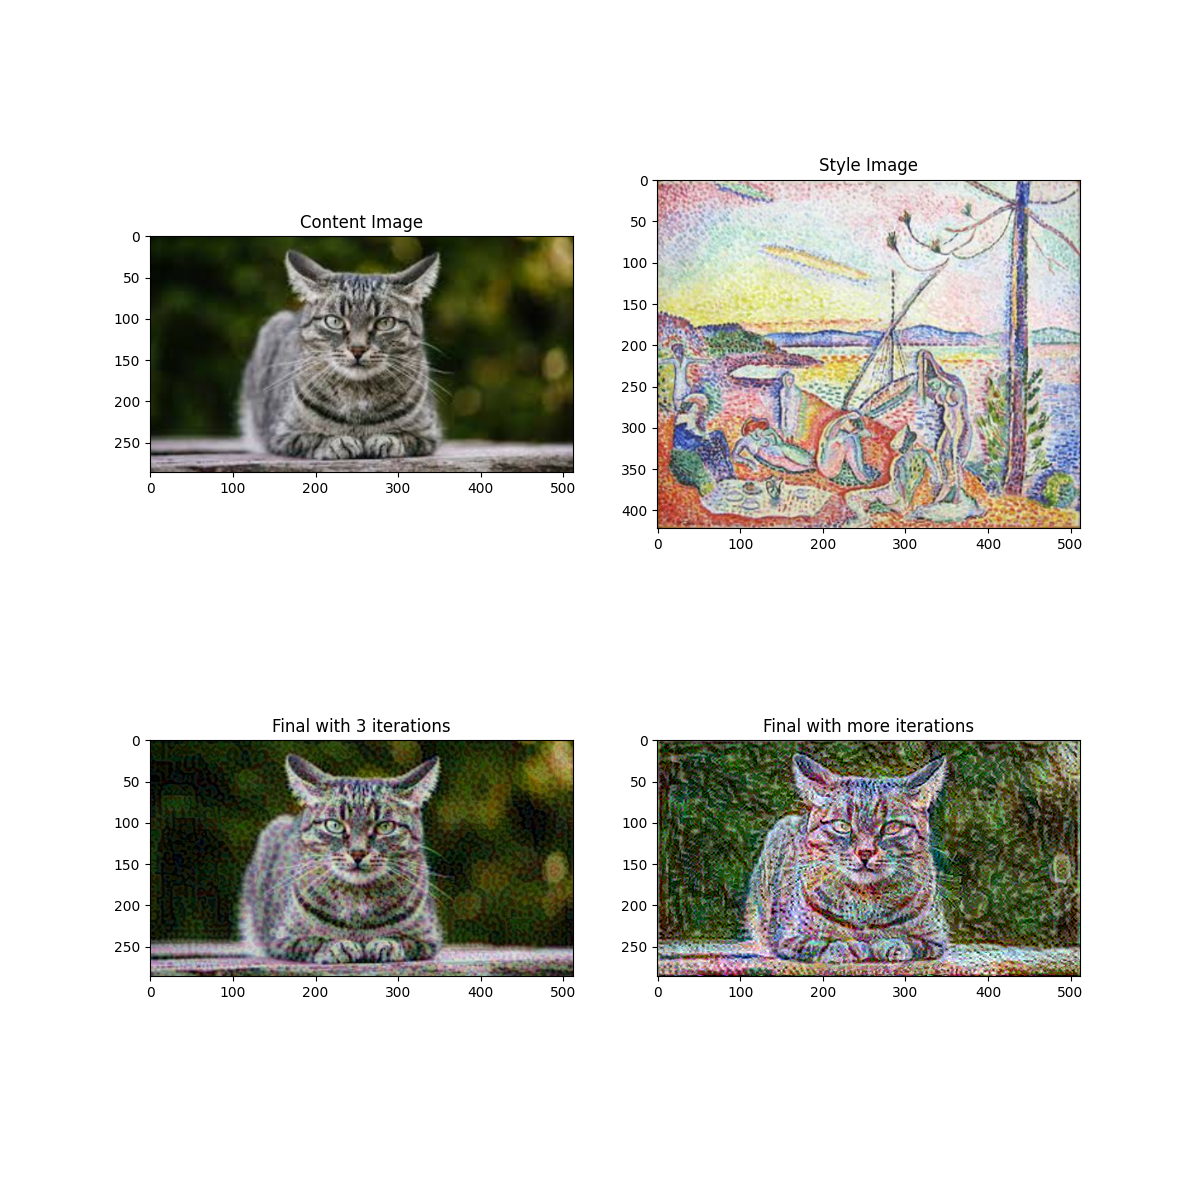
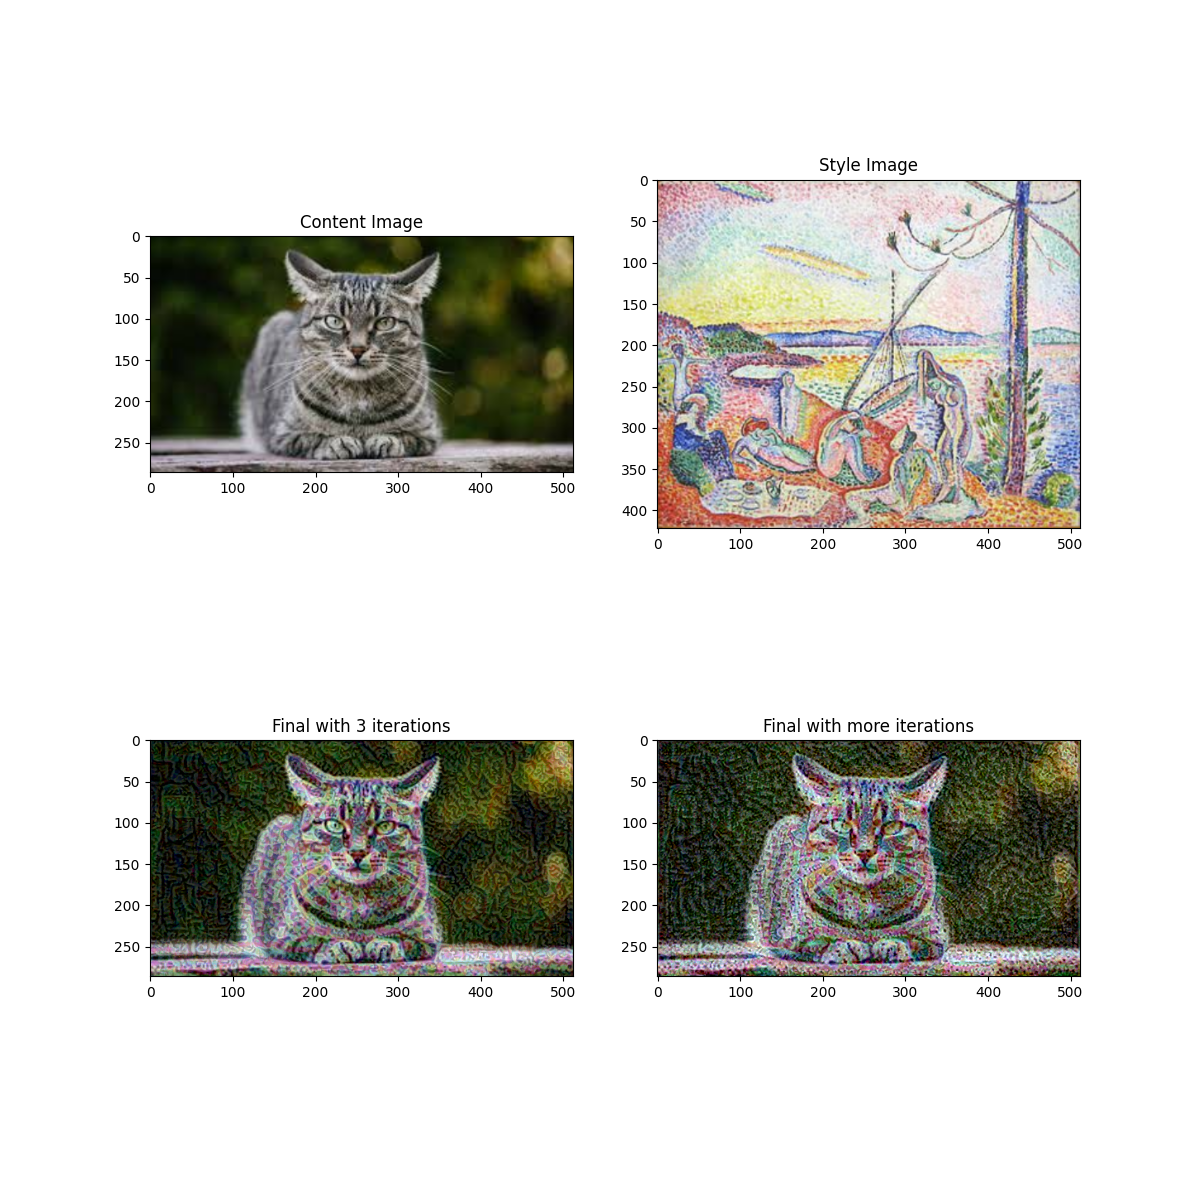
cleaned up single.py Co-authored: Mark Wu

Changed region(s): [[0.5242, 0.6167, 0.925, 0.8325]]

diff --git a/single.py b/single.py
@@ -1,7 +1,10 @@
 '''
+This is adapted from tensorflow's official tutorial on NST:
+https://www.tensorflow.org/tutorials/generative/style_transfer
 Mark Wu; Ding Pang
 '''
 import os
+from numpy.matrixlib.defmatrix import matrix
 import tensorflow as tf
 import IPython.display as display
 os.environ['TFHUB_MODEL_LOAD_FORMAT'] = 'COMPRESSED'
@@ -20,9 +23,12 @@ from tqdm import tqdm
 Style_Path= "./style3.jpeg"
 Content_Path = "./content1.jpeg"
 
+# A function converts a tensor into image
 def tensor_to_image(tensor):
+  # Tensor is in range from 0 to 1, we convert it to 0-255 for colors.
   tensor = tensor*255
   tensor = np.array(tensor, dtype=np.uint8)
+  # dim 3 is RGB
   if np.ndim(tensor)>3:
     assert tensor.shape[0] == 1
     tensor = tensor[0]
@@ -32,21 +38,27 @@ def tensor_to_image(tensor):
 #Function to load in an image and limiting the image maximum dimention to 512 pixels.
 def load_img(path_to_img):
   max_dim = 512
+  # Read and get the image
   img = tf.io.read_file(path_to_img)
   img = tf.image.decode_image(img, channels=3)
   img = tf.image.convert_image_dtype(img, tf.float32)
 
+  # convert tensor's shape to float32 for easy calculation
   shape = tf.cast(tf.shape(img)[:-1], tf.float32)
-  long_dim = max(shape)
-  scale = max_dim / long_dim
 
+  # Find the "max" dimension
+  long_dim = max(shape)
+  # limit the "max" dimension to actual max_dim
+  scale = max_dim / long_dim
   new_shape = tf.cast(shape * scale, tf.int32)
 
+  # resize the image
   img = tf.image.resize(img, new_shape)
+  # add one dim in image, so it is in (1, width, length, 3)
   img = img[tf.newaxis, :]
   return img
 
-#Function to display image
+#Function to display image with title
 def imshow(image, title=None):
   if len(image.shape) > 3:
     image = tf.squeeze(image, axis=0)
@@ -64,49 +76,50 @@ plt.subplot(2, 2, 2)
 imshow(style_image, 'Style Image')
 # plt.show()
 
+# Put content image in RGB values and pass to vgg19
 x = tf.keras.applications.vgg19.preprocess_input(content_image*255)
+# Resize x into 224 by 224, which is default size for vgg19
 x = tf.image.resize(x, (224, 224))
+
 # Load Pre-trained VGG19
 # This would require a "good" certificate
 vgg = tf.keras.applications.VGG19(include_top=False, weights='imagenet')
 
+# We will get "features" from those belwo layers
 content_layers = ['block5_conv2']
 style_layers = ['block1_conv1',
                 'block2_conv1',
                 'block3_conv1',
                 'block4_conv1',
                 'block5_conv1']
+
 num_content_layers = len(content_layers)
 num_style_layers = len(style_layers)
 
+
 def vgg_layers(layer_names):
-  # Creates a vgg model that returns a list of intermediate output values.
+  # Creates a vgg model that returns a list of feature values.
   # Load our model. Load pretrained VGG, trained on imagenet data
   vgg.trainable = False # Gatys Modle doesn't train or let the model learn
 
-  outputs = [vgg.get_layer(name).output for name in layer_names]
-  # Defining a model using Keras API with specifying input/output
+  outputs = []
+  for name in layer_names:
+    outputs.append(vgg.get_layer(name).output)
+
+  # Defining a model using Keras API with specifying our outputs
   model = tf.keras.Model([vgg.input], outputs)
   return model
 
-style_extractor = vgg_layers(style_layers)
-style_outputs = style_extractor(style_image*255)
 
-
-#Look at the statistics of each layer's output
-# for name, output in zip(style_layers, style_outputs):
-#   print(name)
-#   print("  shape: ", output.numpy().shape)
-#   print("  min: ", output.numpy().min())
-#   print("  max: ", output.numpy().max())
-#   print("  mean: ", output.numpy().mean())
-#   print()
-
+# each feature from one layer is in shape (1, pos1, pos2, filter)
 def gram_matrix(input_tensor):
-  result = tf.linalg.einsum('bijc,bijd->bcd', input_tensor, input_tensor)
+  # Using einsum for gram matrix:
+  # k = 1 this never changes
+  # i, j are the postion in c/d filter
+  result = tf.linalg.einsum('kijc,kijd->kcd', input_tensor, input_tensor)
   input_shape = tf.shape(input_tensor)
-  num_locations = tf.cast(input_shape[1]*input_shape[2], tf.float32)
-  return result/(num_locations)
+  num_positions = tf.cast(input_shape[1]*input_shape[2], tf.float32)
+  return result/(num_positions)
 
 class StyleContentModel(tf.keras.models.Model):
   def __init__(self, style_layers, content_layers):
@@ -114,30 +127,34 @@ class StyleContentModel(tf.keras.models.Model):
     self.vgg = vgg_layers(style_layers + content_layers)
     self.style_layers = style_layers
     self.content_layers = content_layers
-    self.num_style_layers = len(style_layers)
+    self.num_style_layers = num_style_layers
     self.vgg.trainable = False
 
 #Function returns the style of style layers(in gram matrix) and content of content layer
-  def call(self, inputs):
+  def call(self, content_image):
     "Expects float input in [0,1]"
-    inputs = inputs*255.0
-    preprocessed_input = tf.keras.applications.vgg19.preprocess_input(inputs)
+    content_image = content_image*255.0
+    preprocessed_input = tf.keras.applications.vgg19.preprocess_input(content_image)
     outputs = self.vgg(preprocessed_input)
-    style_outputs, content_outputs = (outputs[:self.num_style_layers],
-                                      outputs[self.num_style_layers:])
+    style_features = outputs[:self.num_style_layers]
+    content_features = outputs[self.num_style_layers:]
 
-    style_outputs = [gram_matrix(style_output)
-                     for style_output in style_outputs]
+    # Store style features in gram matrix form
+    style_features_gram = []
+    for style_feature in style_features:
+      style_features_gram.append(gram_matrix(style_feature))
 
-    content_dict = {content_name: value
-                    for content_name, value
-                    in zip(self.content_layers, content_outputs)}
+    # put style features in a store
+    style_store = {}
+    for name, value in zip(self.style_layers, style_features_gram):
+      style_store[name] = value
 
-    style_dict = {style_name: value
-                  for style_name, value
-                  in zip(self.style_layers, style_outputs)}
+    # put content features in a store
+    content_store = {}
+    for name, value in zip(self.content_layers, content_features):
+      content_store[name] = value
 
-    return {'content': content_dict, 'style': style_dict}
+    return {'content': content_store, 'style': style_store}
 
 
 
@@ -145,61 +162,50 @@ extractor = StyleContentModel(style_layers, content_layers)
 
 results = extractor(tf.constant(content_image))
 
-print('Styles:')
-for name, output in sorted(results['style'].items()):
-  print("  ", name)
-  print("    shape: ", output.numpy().shape)
-  print("    min: ", output.numpy().min())
-  print("    max: ", output.numpy().max())
-  print("    mean: ", output.numpy().mean())
-  print()
-
-print("Contents:")
-for name, output in sorted(results['content'].items()):
-  print("  ", name)
-  print("    shape: ", output.numpy().shape)
-  print("    min: ", output.numpy().min())
-  print("    max: ", output.numpy().max())
-  print("    mean: ", output.numpy().mean())
-
+# Original style/content features of style/content image
 style_targets = extractor(style_image)['style']
 content_targets = extractor(content_image)['content']
 
+# put content image as a variable, and we are going to update this variable
+# during trainning
 image = tf.Variable(content_image)
 
+opt = tf.optimizers.Adam(learning_rate=0.05)
 
-def clip_0_1(image):
-  return tf.clip_by_value(image, clip_value_min=0.0, clip_value_max=1.0)
-
-
-opt = tf.optimizers.Adam(learning_rate=0.02, beta_1=0.99, epsilon=1e-1)
-
-style_weight=1e-2
-content_weight=1e4
+# we can play with the weights to get desirable result.
+style_weight= 100
+content_weight= 10
 
 def style_content_loss(outputs):
-    style_outputs = outputs['style']
-    content_outputs = outputs['content']
-    style_loss = tf.add_n([tf.reduce_mean((style_outputs[name]-style_targets[name])**2)
-                           for name in style_outputs.keys()])
+    # Getting features
+    style_features = outputs['style']
+    content_features = outputs['content']
+
+    # Calculate losses and apply weigths
+    # we have more layers for style, so we are going to devide the weight by num_style_layers,
+    # which kinda "undo" the add_n
+    style_loss = tf.add_n([tf.reduce_mean((style_features[name]-style_targets[name])**2)
+                           for name in style_features.keys()])
     style_loss *= style_weight / num_style_layers
 
-    content_loss = tf.add_n([tf.reduce_mean((content_outputs[name]-content_targets[name])**2)
-                             for name in content_outputs.keys()])
+    content_loss = tf.add_n([tf.reduce_mean((content_features[name]-content_targets[name])**2)
+                             for name in content_features.keys()])
     content_loss *= content_weight / num_content_layers
+
     loss = style_loss + content_loss
     return loss
 
 
 @tf.function()
 def train_step(image):
+  # Using Gradient descent to update our image
   with tf.GradientTape() as tape:
     outputs = extractor(image)
     loss = style_content_loss(outputs)
-
   grad = tape.gradient(loss, image)
   opt.apply_gradients([(grad, image)])
-  image.assign(clip_0_1(image))
+  # update the image
+  image.assign(tf.clip_by_value(image, clip_value_min=0.0, clip_value_max=1.0))
 
 
 train_step(image)
@@ -212,7 +218,7 @@ plt.title("Final with 3 iterations")
 
 start = time.time()
 
-max_steps = 100
+max_steps = 10
 
 step = 0
 print("Running Optimization")
